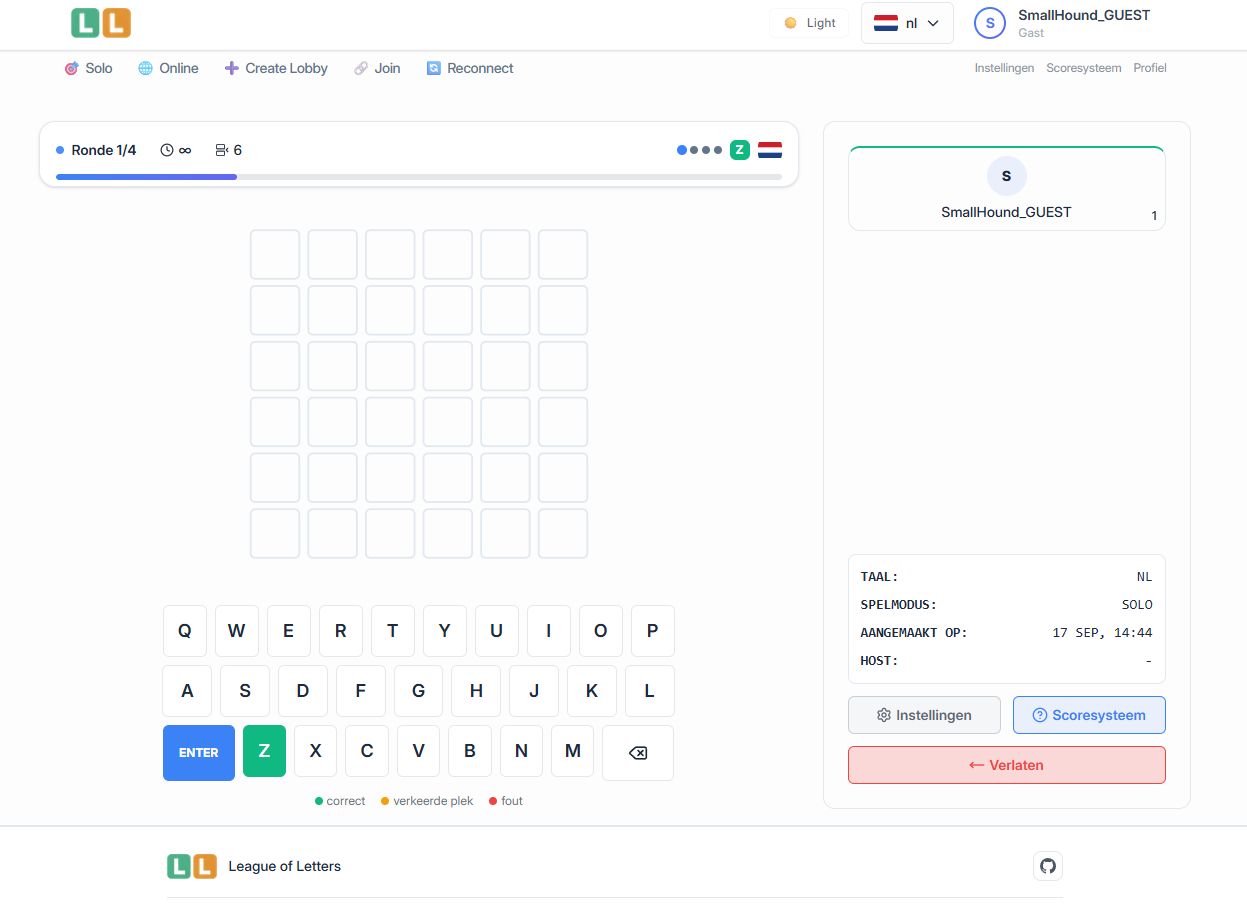
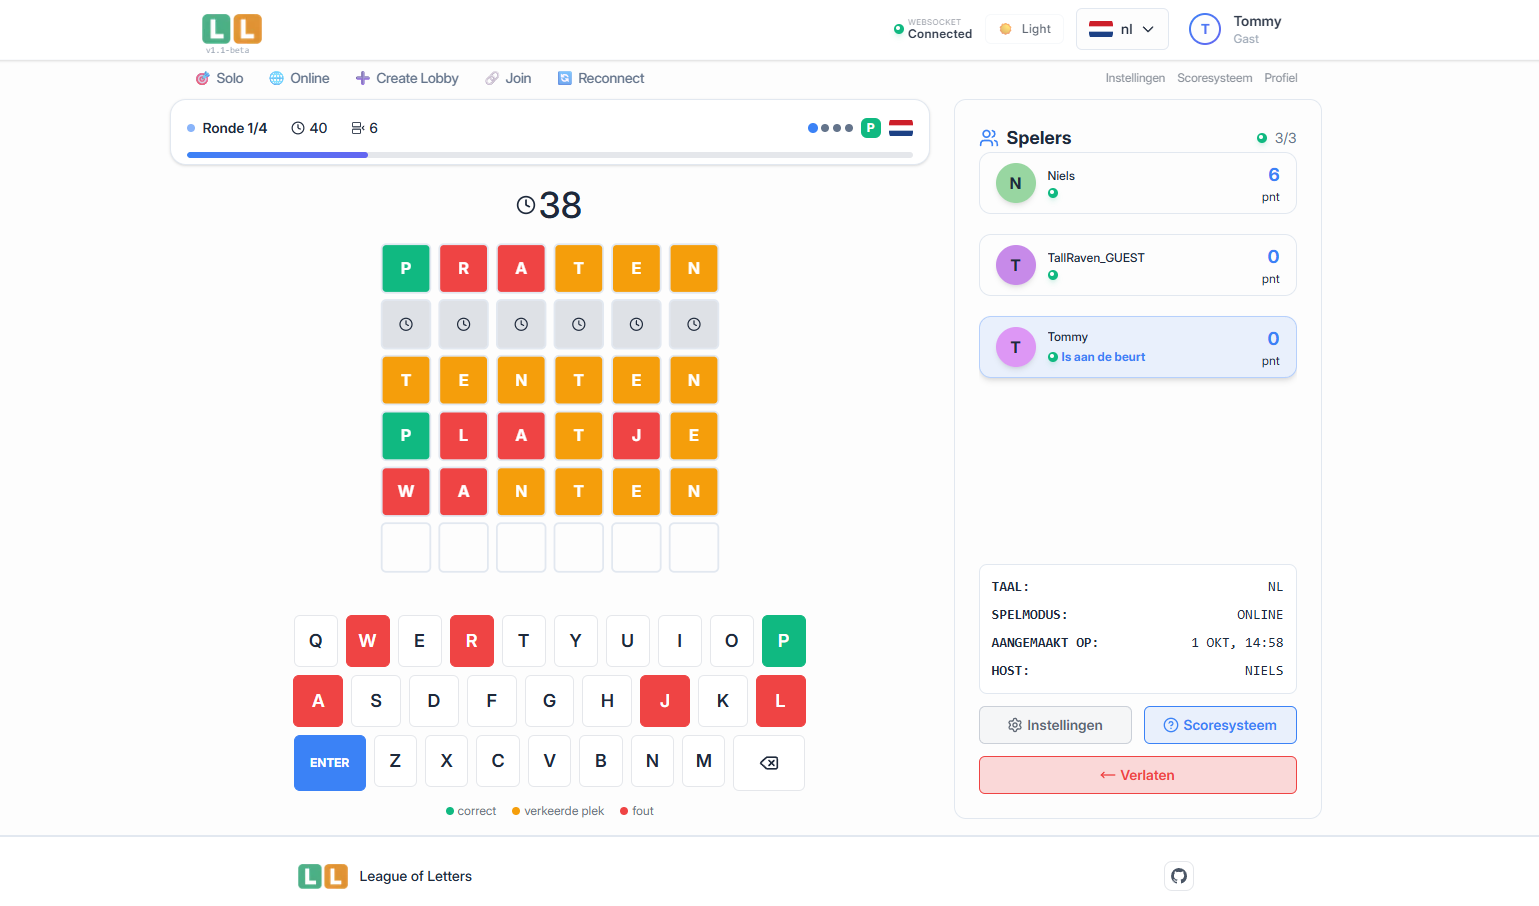
sm bugfix

diff --git a/core-server/src/components/layout/AuthenticationRequiredBlock.tsx b/core-server/src/components/layout/AuthenticationRequiredBlock.tsx
@@ -3,28 +3,31 @@ import { Lock } from 'lucide-react';
 import { SupportedLanguage } from '@/features/i18n/languages';
 import { loadTranslations } from '@/features/i18n/utils';
 import AuthProceedButton from './AuthProceedButton';
+import PageBase from './PageBase';
 
 export default async function AuthenticationRequiredBlock({ lang }: { lang: SupportedLanguage }) {
   const t = await loadTranslations(lang, ["general"]);
   
   return (
-    <div className="flex flex-col gap-6 items-center justify-center text-center max-w-md mx-auto p-8">
-      {/* Icon */}
-      <div className="w-16 h-16 bg-primary/20 rounded-full flex items-center justify-center">
-        <Lock className="w-8 h-8 text-primary" />
+    <PageBase lang={lang} requiresAuh={false}>
+      <div className='flex flex-col gap-2 items-center text-center mt-[20px]'>
+        {/* Icon */}
+        <div className="w-16 h-16 bg-primary/20 rounded-full flex items-center justify-center">
+          <Lock className="w-8 h-8 text-primary" />
+        </div>
+        
+        {/* Text */}
+        <div className="space-y-2">
+          <h2 className="text-xl font-bold text-foreground">
+            {t.general.authRequired.title}
+          </h2>
+          <p className="text-foreground-muted leading-relaxed">
+            {t.general.authRequired.description}
+          </p>
+        </div>
+        
+        <AuthProceedButton btnText={t.general.continueButton} />          
       </div>
-      
-      {/* Text */}
-      <div className="space-y-2">
-        <h2 className="text-xl font-bold text-foreground">
-          {t.general.authRequired.title}
-        </h2>
-        <p className="text-foreground-muted leading-relaxed">
-          {t.general.authRequired.description}
-        </p>
-      </div>
-      
-      <AuthProceedButton btnText={t.general.continueButton} />
-  </div>
+    </PageBase>
   );
 }

diff --git a/core-server/src/app/[lang]/online/connect/joined/[joinCode]/page.tsx b/core-server/src/app/[lang]/online/connect/joined/[joinCode]/page.tsx
@@ -8,7 +8,7 @@ import { MAX_ONLINE_GAME_PLAYERS } from "@/features/game/game-constants";
 import { redirect } from "next/navigation";
 import LoadingSpinner from "@/components/ui/animation/LoadingSpinner";
 import LoadingDots from "@/components/ui/animation/LoadingDots";
-import { LANGUAGE_ROUTE, MULTIPLAYER_GAME_ROUTE } from "@/app/routes";
+import { JOIN_GAME_ROUTE, LANGUAGE_ROUTE, MULTIPLAYER_GAME_ROUTE } from "@/app/routes";
 import { SupportedLanguage } from "@/features/i18n/languages";
 import { loadTranslations } from "@/features/i18n/utils";
 import AuthenticationRequiredBlock from "@/components/layout/AuthenticationRequiredBlock";
@@ -26,7 +26,7 @@ export default async function JoinedOnlineGamePage({
 
     const authenticatedUser = await Authenticate_Server(true);
     if (!authenticatedUser) {
-        return <AuthenticationRequiredBlock lang={lang} />
+        redirect(LANGUAGE_ROUTE(lang, JOIN_GAME_ROUTE(joinCode)));
     }
 
     const serverResponse = await JoinGameLobbyCommand({ gameId: joinCode.toString() });

diff --git a/core-server/src/app/not-found.tsx b/core-server/src/app/not-found.tsx
@@ -17,12 +17,12 @@ export default async function NotFound() {
         <div className="text-center space-y-8 flex flex-col items-center justify-center w-full">
           {/* 404 Number */}
           <div className="relative">
-            <h1 className="text-8xl font-bold text-gray-200 select-none">404</h1>
+            <h1 className="text-8xl font-bold text-foreground select-none">404</h1>
           </div>
 
           {/* Error Message */}
           <div className="space-y-4">
-            <h2 className="text-2xl font-semibold text-gray-700">{t.home.notFound.title}</h2>
+            <h2 className="text-2xl font-semibold text-foreground-muted">{t.home.notFound.title}</h2>
             <p className="text-gray-500 leading-relaxed">
               {t.home.notFound.description}
             </p>

diff --git a/core-server/src/components/layout/PageBase.tsx b/core-server/src/components/layout/PageBase.tsx
@@ -40,7 +40,7 @@ export default async function PageBase({ children, size, lang, requiresAuh = tru
 
   // Return content
   return (
-        <div className="px-2 my-0 md:my-4 w-full flex flex-col gap-3 items-center h-full mt-[55px] md:mt-[100px] justify-center">
+        <div className="px-2 my-0 md:my-4 w-full flex flex-col gap-3 items-center h-full mt-[60px] md:mt-[100px] justify-center">
             <div className={`flex flex-col w-full gap-2 md:gap-4 ${cn(pageBaseVariants({ size }))}`}>
                 {children}
             </div>

diff --git a/BACKLOG.md b/BACKLOG.md
@@ -1,5 +1,7 @@
 Voor v1.0-beta
 - Niet geldige woorden uit de lijst halen
+- delay op home pagina?
+- mobiel padding top niet goed in page base lijkt het (zie unauthed pagina)
 
 SHOULD
 - public & private games and some overview where you can see current games (refactor online game route)
